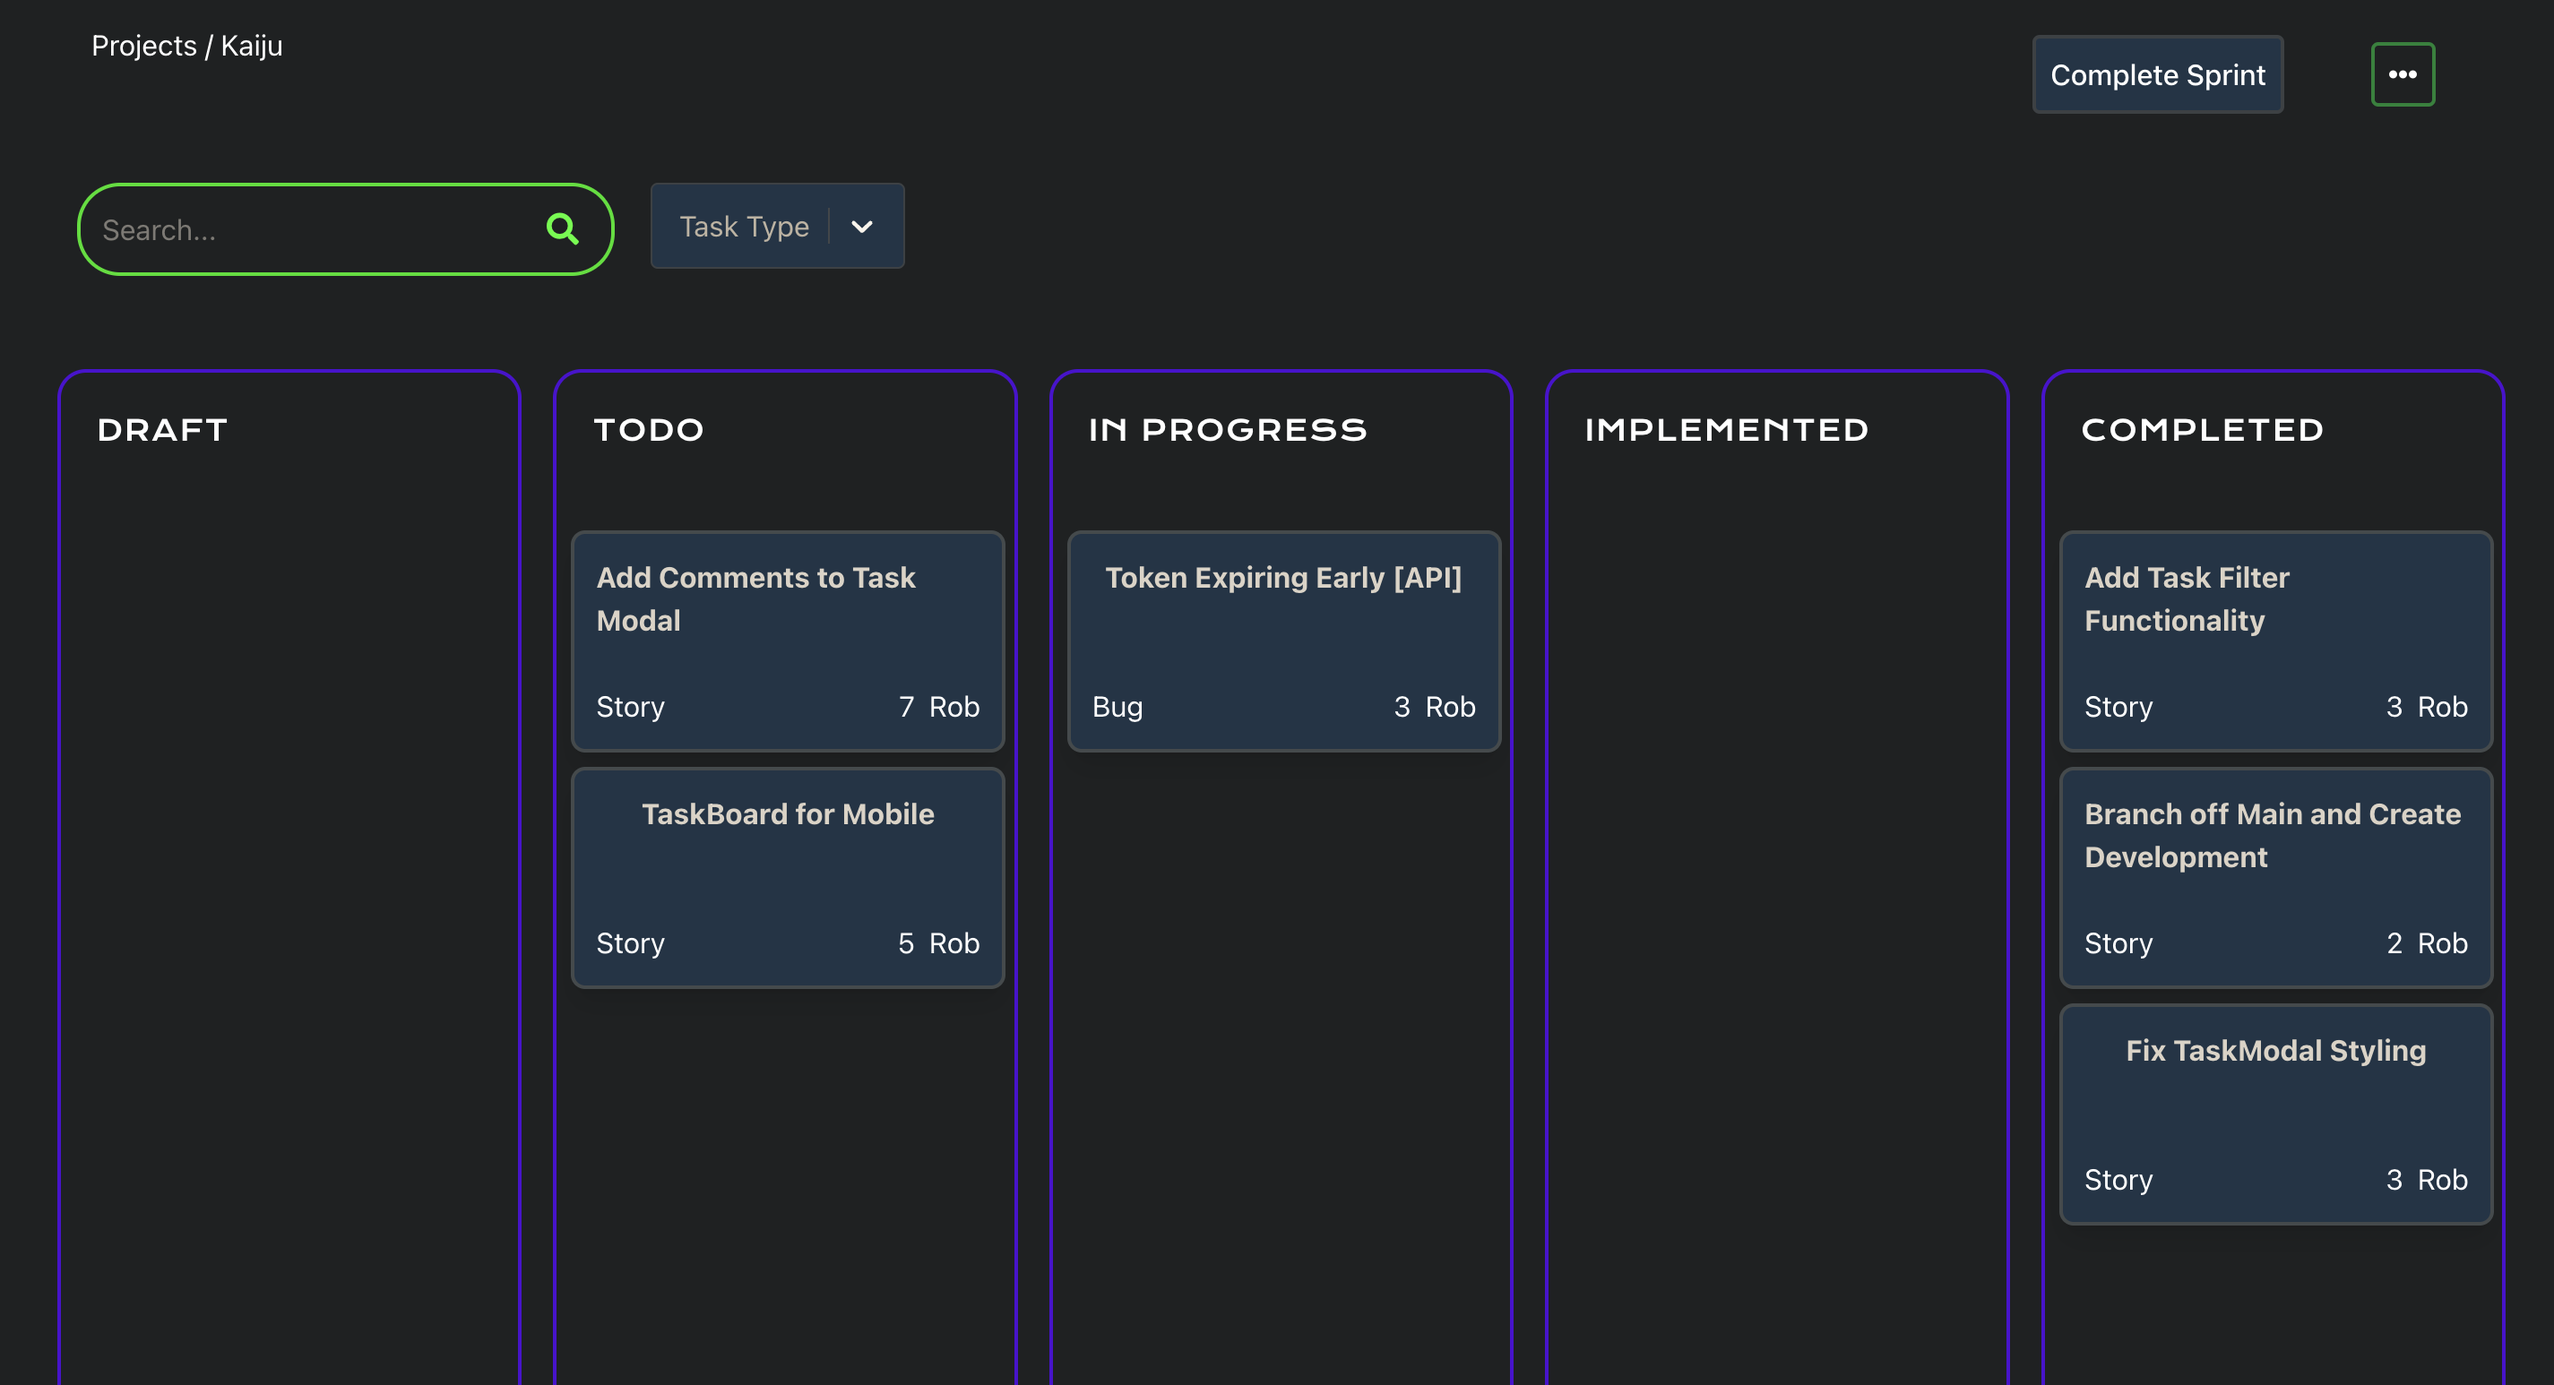
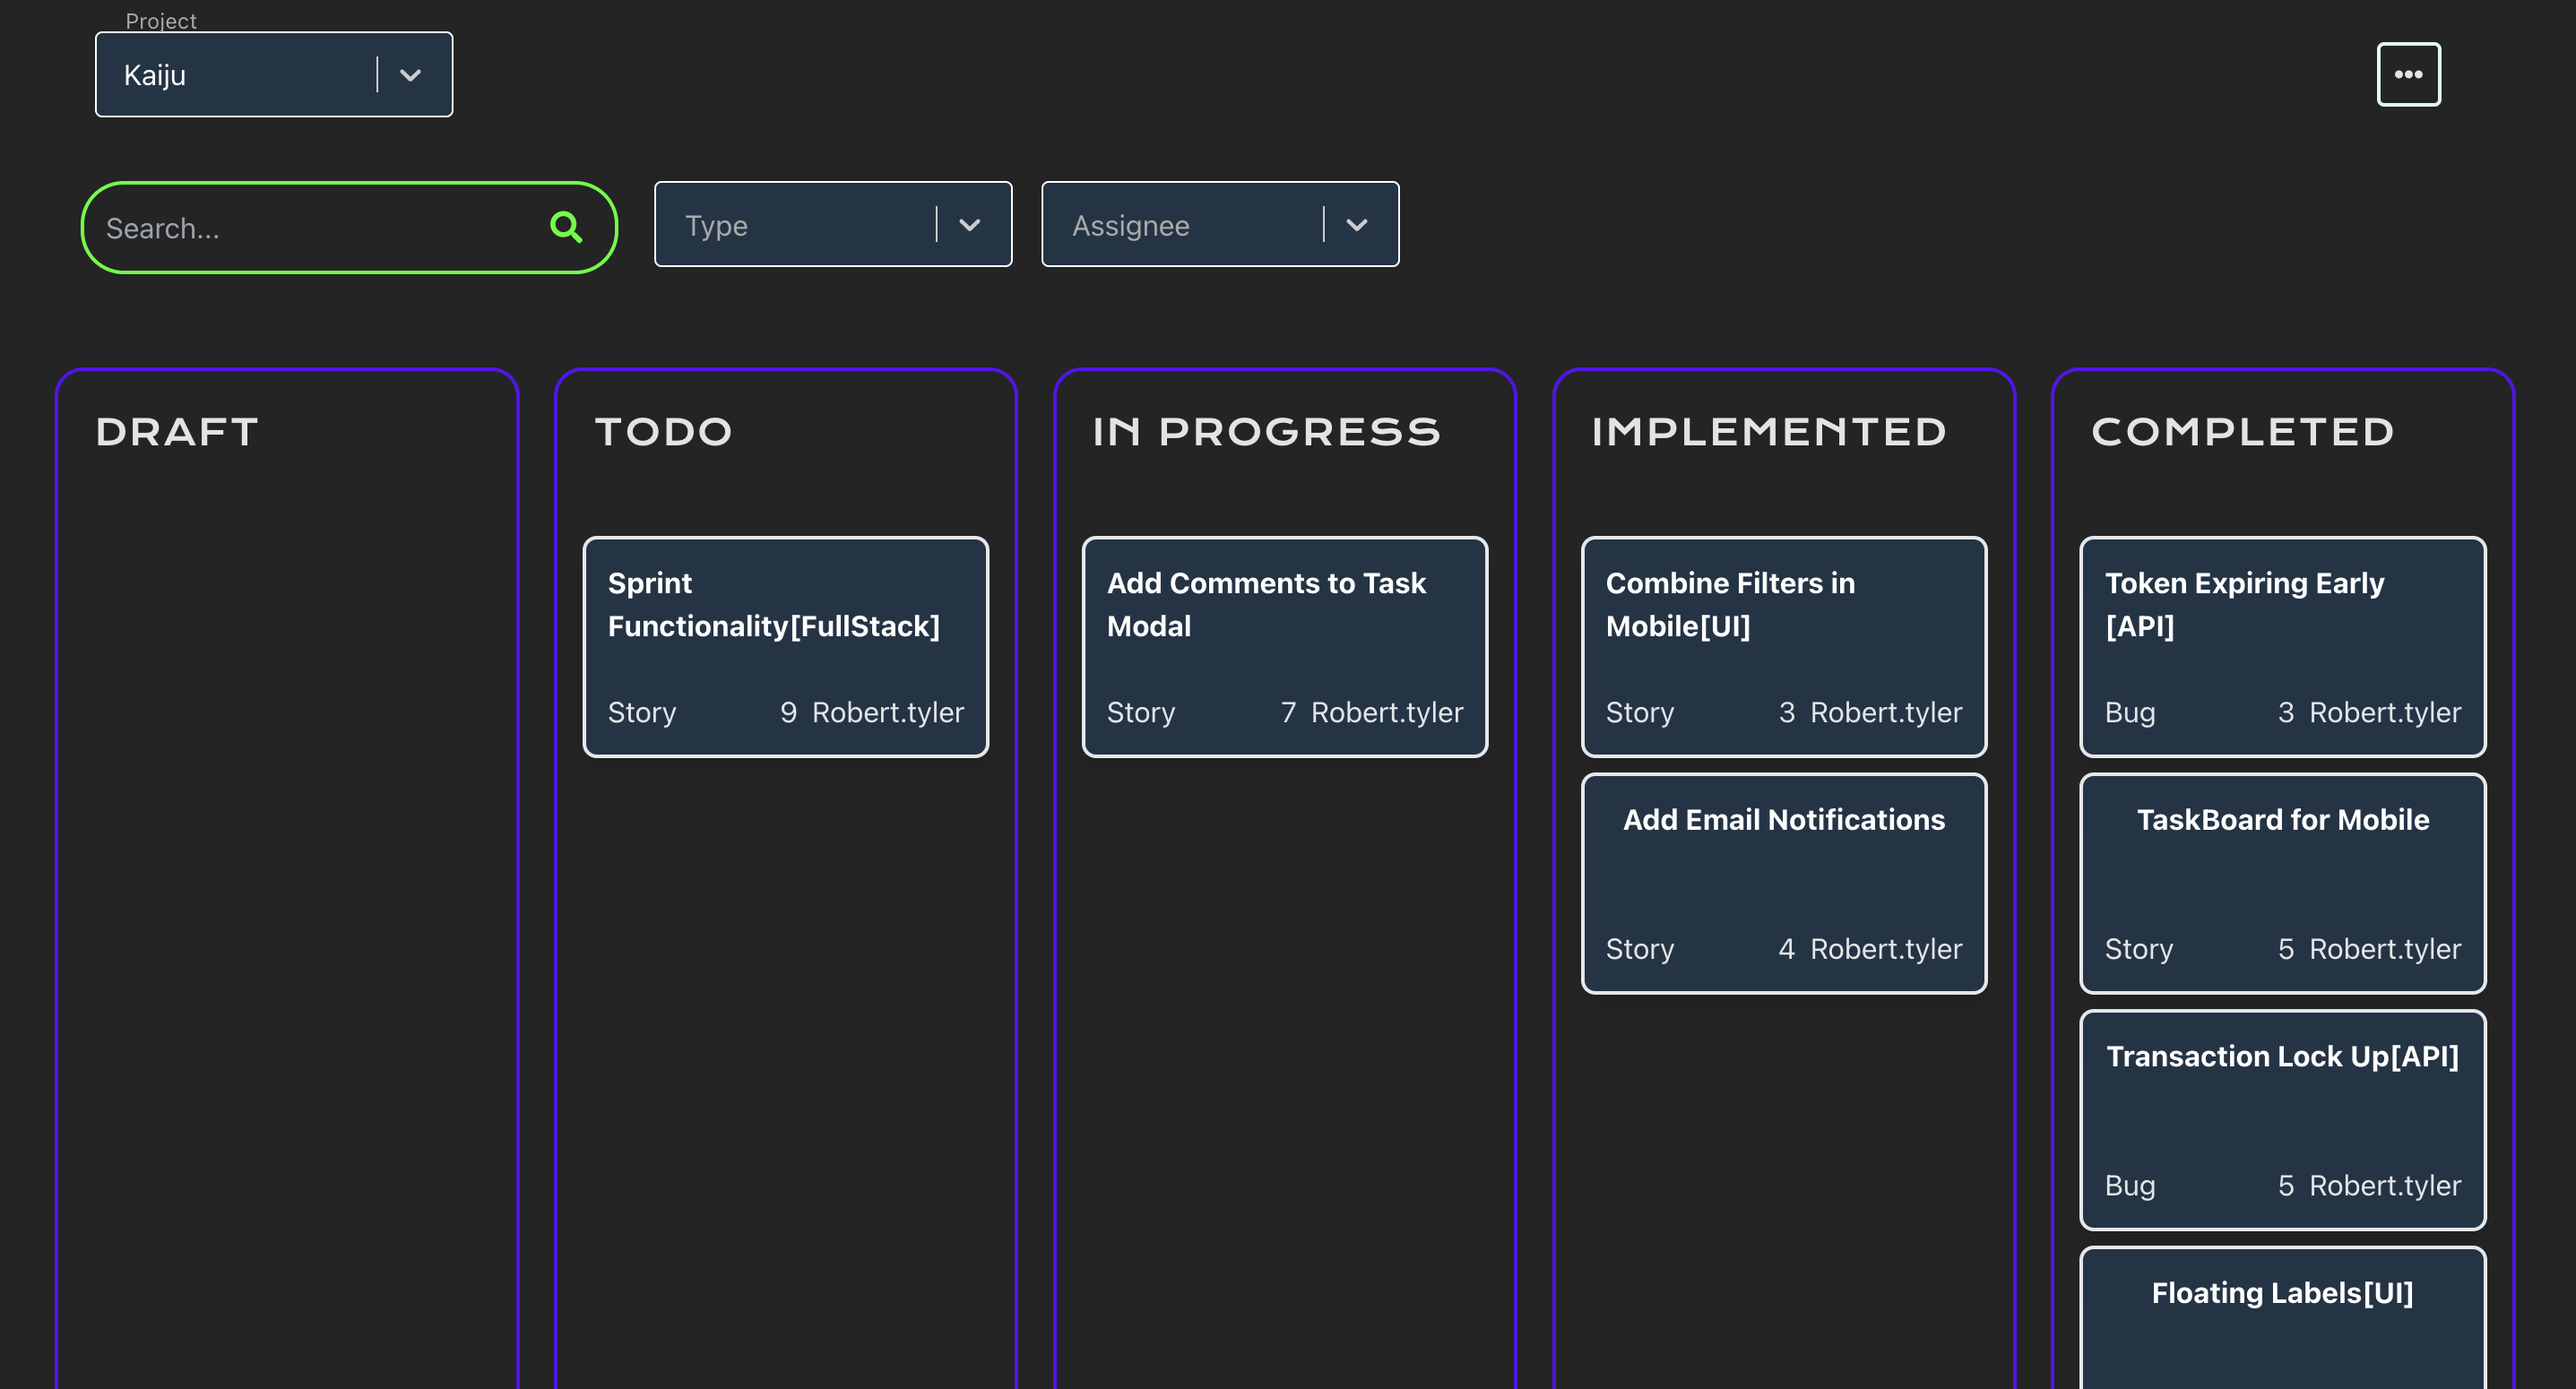
Updated Kaiju images

diff --git a/src/components/Projects.jsx b/src/components/Projects.jsx
@@ -76,9 +76,13 @@ const Projects = () => {
             </div>
             <div className="w-full h-1/2 flex justify-center pt-5 gap-10 flex-wrap">
                 <div className="flex flex-col justify-center items-center relative">
-                    <a className='flex justify-center' href={'https://github.com/Mccaryr/kaiju'} target="_blank" rel="noopener noreferrer">
-                        <img className='w-1/5' src={githubLogo} alt="Github link" />
-                    </a>
+                    <div className="flex sm:w-3/4 w-[90vw]">
+                        <a className="inline-block w-1/5" href={'https://github.com/Mccaryr/kaiju'} target="_blank"
+                           rel="noopener noreferrer">
+                            <img className="sm:w-[20%] w-[60%]"  src={githubLogo} alt="Github link"/>
+                        </a>
+                        <p className="content-center sm:text-[16px] text-[11px]">Tech Stack: React | Tailwind | Spring | Postgres | AWS Lambda</p>
+                    </div>
                     <img
                         src={images[currentImageIndex]}
                         alt={'Kaiju Project'}
@@ -87,16 +91,20 @@ const Projects = () => {
                         className='md:w-3/4 cursor-pointer rounded-2xl w-full'
                         onClick={() => window.open("https://kaiju-mke1.onrender.com/", '_blank')}
                     />
-                    <div className="bg-gray-800 absolute bottom-0 w-[75%] h-[25%] opacity-80 sm:flex p-8 rounded-b-2xl gap-8 hidden">
-                        <h2 className="text-white font-extrabold md:text-xl text-lg">Kaiju Project Manager</h2>
+                    <div className="bg-gray-800 absolute bottom-0 w-[75%] h-[15%] opacity-80 sm:flex p-8 rounded-b-2xl gap-8 hidden">
+                        <h2 className="text-white font-extrabold md:text-xl text-lg">Kaiju</h2>
                         <p className="text white">Task Management app. React front-end, Spring Boot back-end, Postgres database</p>
                     </div>
                 </div>
                 <div className="flex flex-col justify-center items-center relative">
-                    <a className='flex justify-center' href={'https://github.com/Mccaryr/dalt-wisney-ecommerce'} target="_blank"
-                       rel="noopener noreferrer">
-                        <img className='w-1/5' src={githubLogo} alt="Github link"/>
-                    </a>
+                    <div className="flex sm:w-3/4 w-[90vw]">
+                        <a className='inline-block w-1/5' href={'https://github.com/Mccaryr/dalt-wisney-ecommerce'}
+                           target="_blank"
+                           rel="noopener noreferrer">
+                            <img className='sm:w-[20%] w-[60%]' src={githubLogo} alt="Github link"/>
+                        </a>
+                        <p className="content-center sm:text-[16px] text-[11px]">Tech Stack: React | Redux | Node.js | NoSQL</p>
+                    </div>
                     <img
                         src={wisneyImages[currentWisneyImageIndex]}
                         alt={'Wisney Project'}
@@ -107,16 +115,21 @@ const Projects = () => {
                         className='md:w-3/4 cursor-pointer rounded-2xl w-full'
                         onClick={() => window.open("https://dalt-wisney-ecommerce.onrender.com/", '_blank')}
                     />
-                    <div className="bg-gray-800 absolute bottom-0 w-[75%] h-[25%] opacity-80 sm:flex p-8 rounded-b-2xl gap-8 hidden">
+                    <div className="bg-gray-800 absolute bottom-0 w-[75%] h-[15%] opacity-80 sm:flex p-8 rounded-b-2xl gap-8 hidden">
                         <h2 className="text-white font-extrabold md:text-xl text-lg">Dalt Wisney</h2>
                         <p className="text white">E-commerce app. React front-end, Node.js back-end, NoSQL
                             database</p>
                     </div>
                 </div>
                 <div className="flex flex-col justify-center items-center relative">
-                    <a className='flex justify-center' href="https://github.com/Mccaryr/recipe-for-disaster" target="_blank" rel="noopener noreferrer">
-                        <img className='w-1/5' src={githubLogo} alt="Github link"/>
-                    </a>
+                    <div className="flex sm:w-3/4 w-[90vw]">
+                        <a className='inline-block w-1/5' href="https://github.com/Mccaryr/recipe-for-disaster"
+                           target="_blank" rel="noopener noreferrer">
+                            <img className='sm:w-[20%] w-[60%]' src={githubLogo} alt="Github link"/>
+                        </a>
+                        <p className="content-center sm:text-[16px] text-[11px]">Tech Stack: Next | Tailwind | Postgres</p>
+                    </div>
+
                     <img
                         src={rfdImages[currentRFDImageIndex]}
                         alt={'Recipe for Disaster Project'}
@@ -127,7 +140,8 @@ const Projects = () => {
                         className='md:w-3/4 cursor-pointer rounded-2xl w-full'
                         onClick={() => window.open("https://recipe-for-disaster-liart.vercel.app/", '_blank')}
                     />
-                    <div className="bg-gray-800 absolute bottom-0 w-[75%] h-[25%] opacity-80 sm:flex p-8 rounded-b-2xl gap-8 hidden">
+                    <div
+                        className="bg-gray-800 absolute bottom-0 w-[75%] h-[15%] opacity-80 sm:flex p-8 rounded-b-2xl gap-8 hidden">
                         <h2 className="text-white font-extrabold md:text-xl text-md">Recipe for Disaster</h2>
                         <p className="text white">Recipe app. Next.js for SSR, Tailwind for styling, Postgres
                             database</p>

diff --git a/src/components/Navbar.jsx b/src/components/Navbar.jsx
@@ -1,4 +1,4 @@
-import React, { useState } from 'react'
+import { useState } from 'react'
 import { Link } from 'react-router-dom'
 import { styles } from '../styles'
 import { navLinks } from '../constants'
